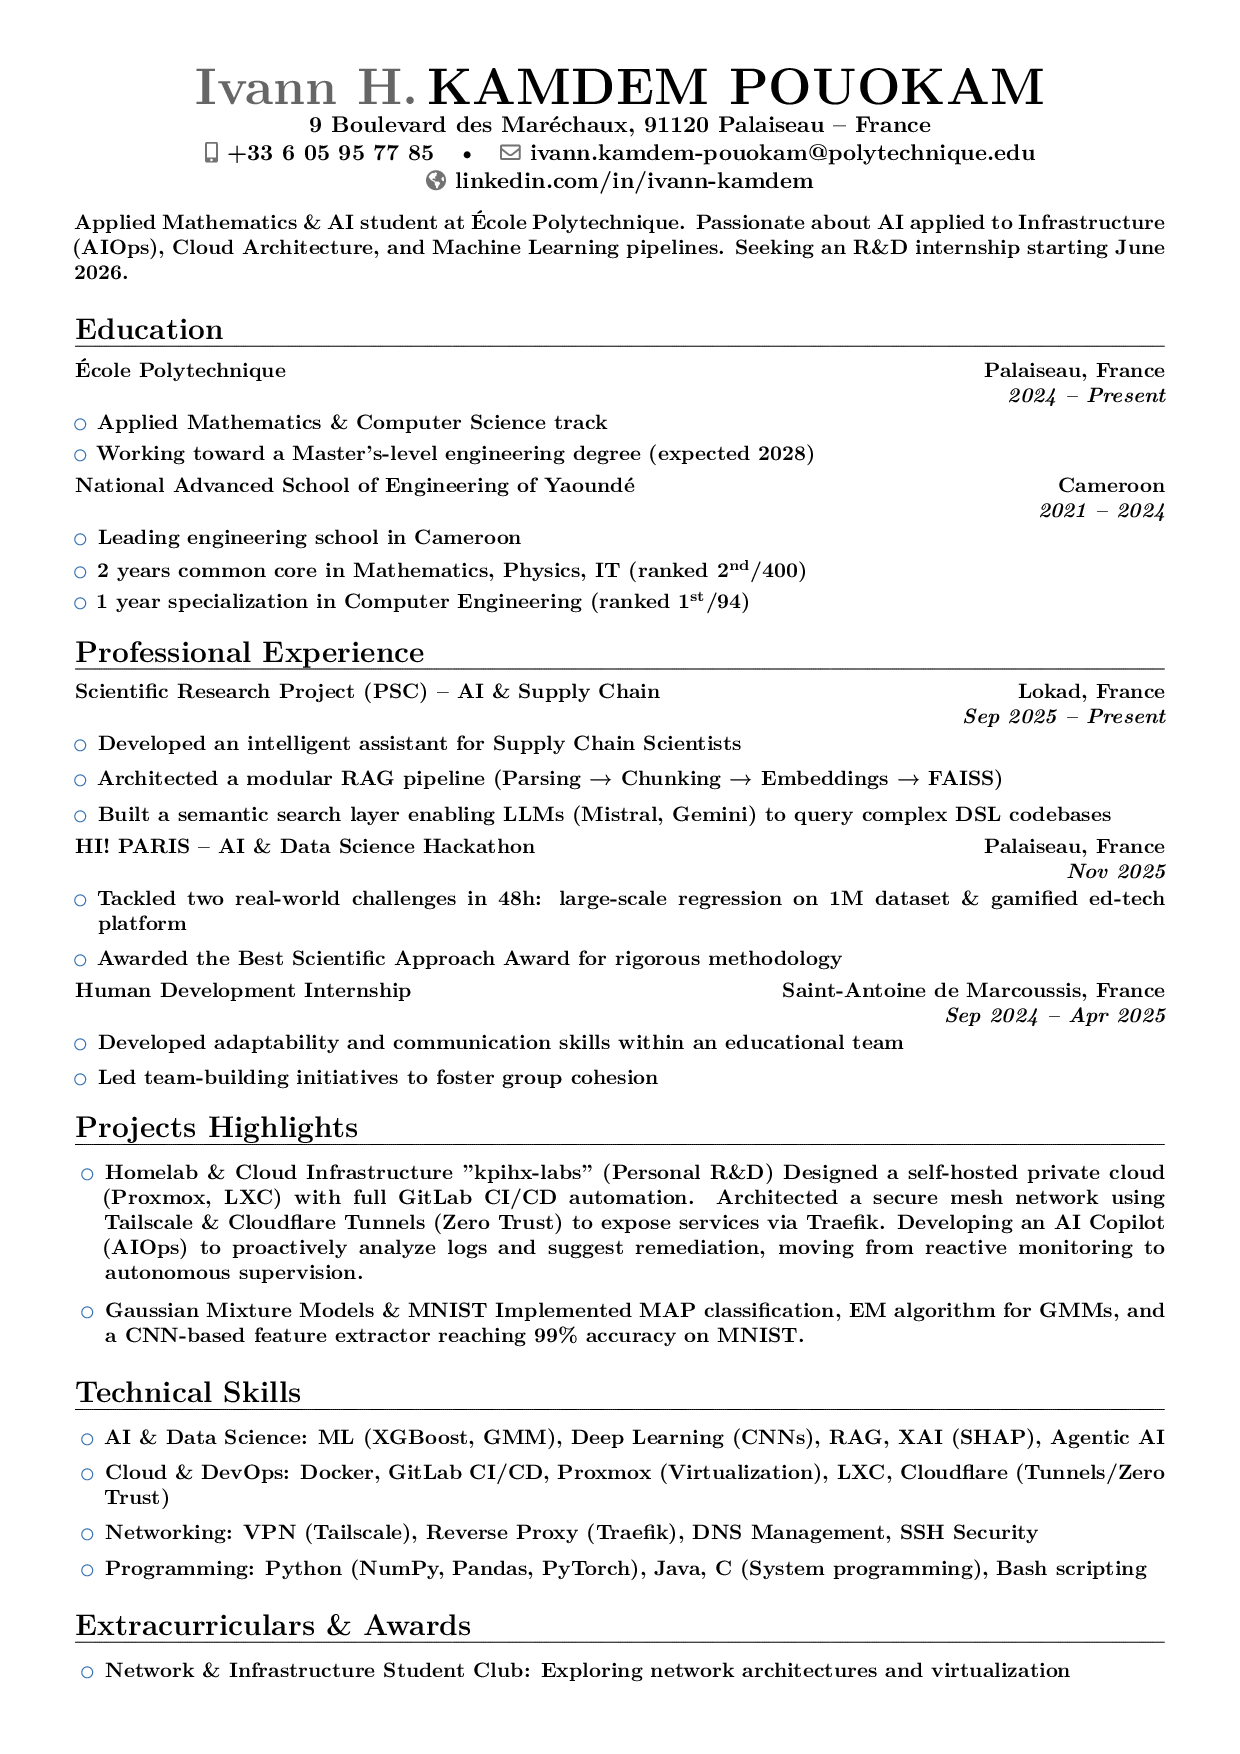
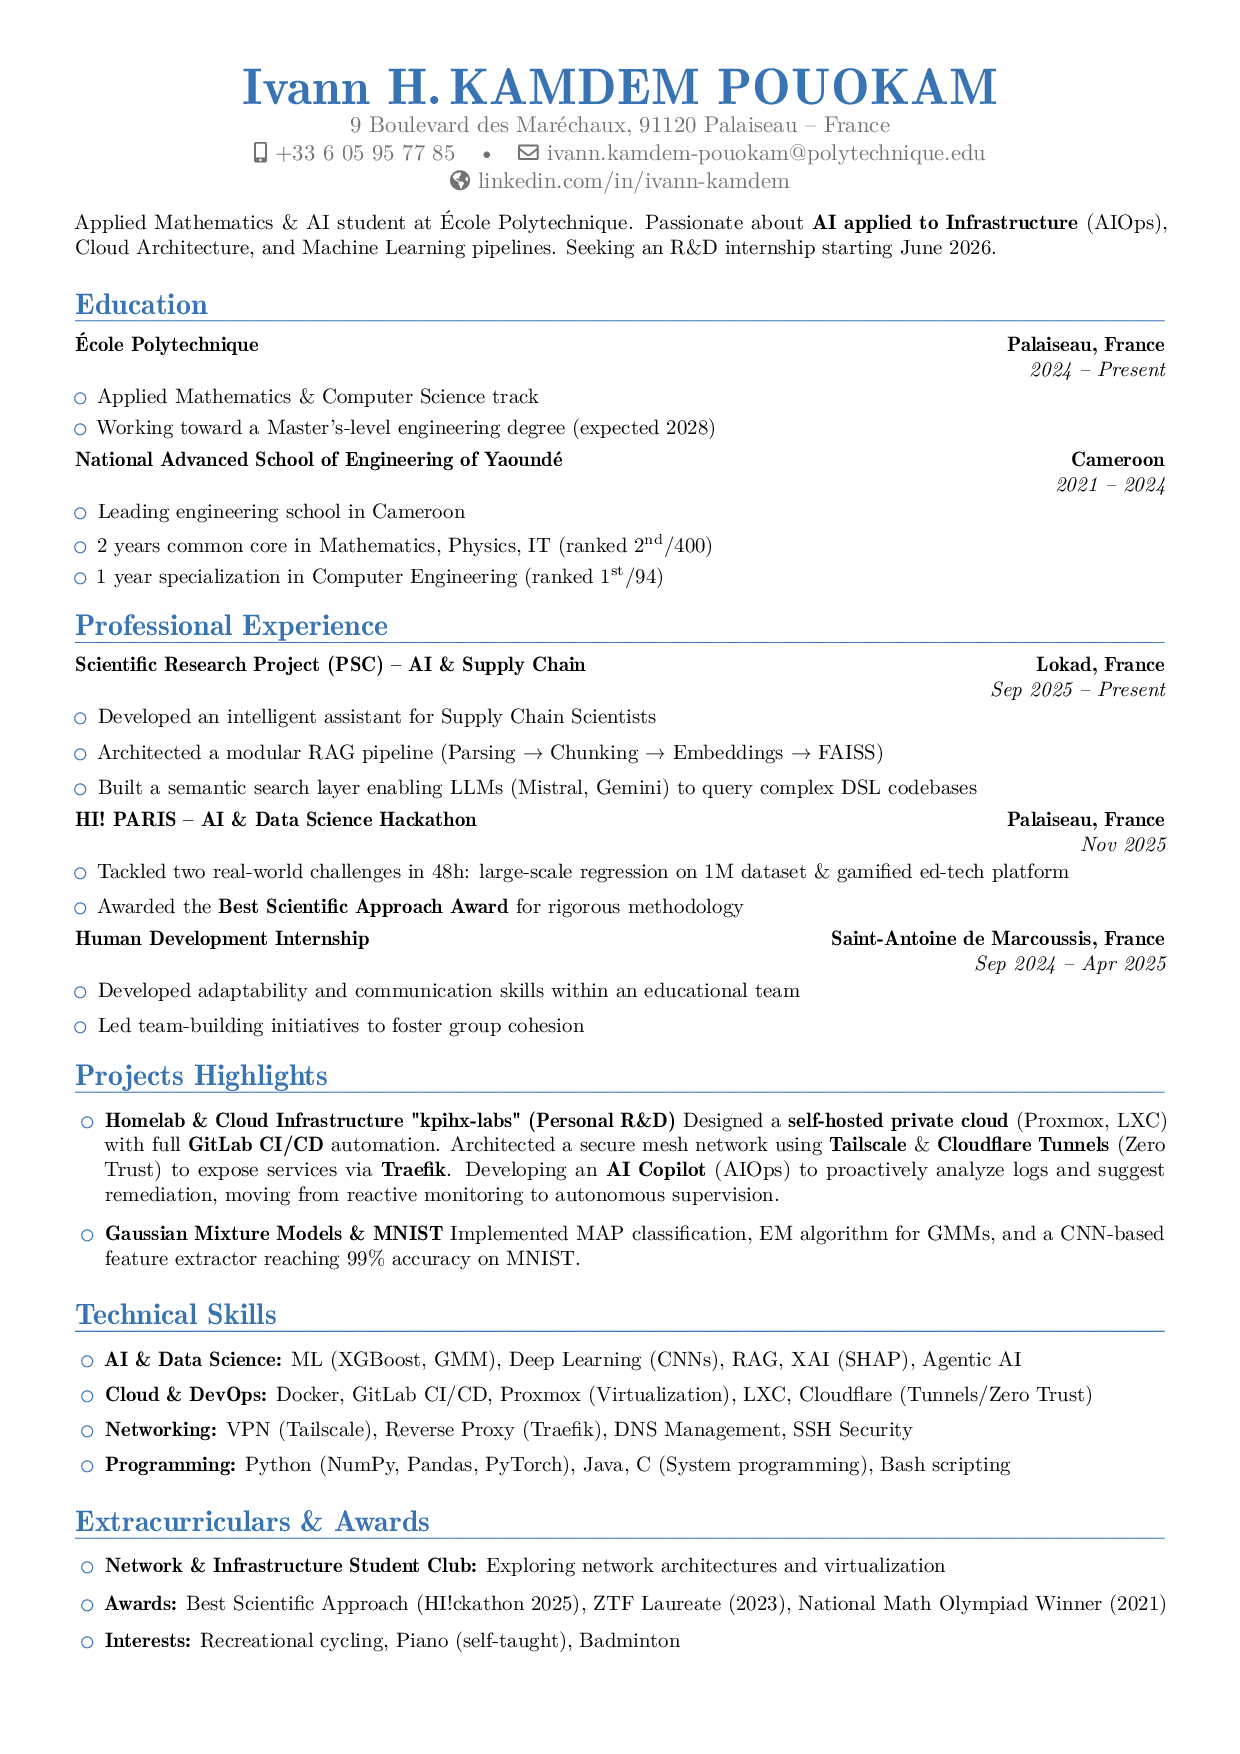
feat: rename to CV_KAMDEM_Ivann, add project scaffolding
- Rename Resume.tex → CV_KAMDEM_Ivann.tex (output: CV_KAMDEM_Ivann.pdf)
  File naming is immutable: share-ready without renaming
- Update all CI/CD references (GitLab + GitHub) to new filename
- Fix .gitignore: add agent artifact exclusions (.agent/, CLAUDE.md,
  GEMINI.md, AGENTS.md, COPILOT.md, VIBE.md, .vibe/)
- Add CHANGELOG.md: full v1.0.0 release history with bug table
- Add TODO.md: content improvements + infra roadmap
- Add .agent/AGENT.md: project kernel with CV-specific rules,
  bug history, build reference, user identity + collaboration protocol

diff --git a/CV_KAMDEM_Ivann.tex b/CV_KAMDEM_Ivann.tex
@@ -3,24 +3,20 @@
 \PassOptionsToPackage{dvipsnames,svgnames,x11names}{xcolor}
 \documentclass[11pt,a4paper]{moderncv}
 
-% modern themes — color MUST be defined before style (moderncv v2.4.1 compat)
-% banking style does \colorlet{sectioncolor}{color1} at load time;
-% color1 must exist first or it silently falls back to black.
+% Color MUST be declared before style (moderncv v2.4.1): banking does
+% \colorlet{sectioncolor}{color1} at package load time — color1 must
+% already exist, otherwise it silently falls back to black.
 \moderncvcolor{blue}
 \moderncvstyle{banking}
 
-% Font setup: use Latin Modern for XeLaTeX (avoids missing TeX Gyre Pagella)
-\usepackage{ifxetex,ifluatex}
-\ifxetex
-  \usepackage{fontspec}
-  \setmainfont{Latin Modern Roman}
-\else\ifluatex
-  \usepackage{fontspec}
-  \setmainfont{Latin Modern Roman}
-\else
-  \usepackage[utf8]{inputenc}
-  \usepackage[T1]{fontenc}
-\fi\fi
+% Override first-name tint: banking default is lastnamecolor!60 (lighter).
+% Force both first and last name to the same full blue.
+\colorlet{firstnamecolor}{color1}
+
+% pdflatex font encoding — gives proper bold/italic with tgpagella
+\usepackage[T1]{fontenc}
+\usepackage{lmodern}
+\usepackage[utf8]{inputenc}
 
 % adjust the page margins
 \usepackage[left=0.5in,right=0.5in,top=0.45in,bottom=0.45in]{geometry}

diff --git a/README.md b/README.md
@@ -3,7 +3,7 @@
 [![GitHub Actions](https://github.com/KpihX/cv-atf/actions/workflows/build-pdf.yml/badge.svg)](https://github.com/KpihX/cv-atf/actions/workflows/build-pdf.yml)
 [![GitLab CI](https://gitlab.com/kpihx/cv-atf/badges/master/pipeline.svg)](https://gitlab.com/kpihx/cv-atf/-/pipelines)
 
-Academic and professional résumé — **moderncv** banking style, blue theme, built with XeLaTeX.
+Academic and professional résumé — **moderncv** banking style, blue theme, built with pdflatex.
 
 ---
 
@@ -21,11 +21,12 @@ Academic and professional résumé — **moderncv** banking style, blue theme, b
 |-----------|--------|
 | Document class | `moderncv` (banking style) |
 | Color theme | blue |
-| Icons | `fontawesome5` |
-| Compiler | **XeLaTeX** (required) |
+| Font | TeX Gyre Pagella (`tgpagella`) |
+| Compiler | **pdflatex** |
 
-> ⚠ **Important:** `fontawesome5` + `moderncv` banking require **XeLaTeX**.
-> Using `pdflatex` produces degraded rendering (missing colors, fallback fonts).
+> ℹ **Engine note:** moderncv banking uses `tgpagella.sty` (pdflatex font package).
+> Use `pdflatex` for correct bold, color, and TeX Gyre Pagella rendering.
+> XeLaTeX causes font conflicts with banking's pdflatex font loader.
 
 ---
 
@@ -37,25 +38,25 @@ Academic and professional résumé — **moderncv** banking style, blue theme, b
 # Ubuntu / Debian — full texlive (recommended)
 sudo apt-get install texlive-full
 
-# Minimal (adjust if packages are missing)
-sudo apt-get install texlive-xetex texlive-latex-extra texlive-fonts-extra
+# Minimal
+sudo apt-get install texlive-latex-extra texlive-fonts-extra lmodern
 ```
 
 ### Compile
 
 ```bash
-xelatex Resume.tex
+pdflatex CV_KAMDEM_Ivann.tex
 ```
 
-Second pass (if cross-references change):
+Second pass (for cross-references):
 
 ```bash
-xelatex Resume.tex && xelatex Resume.tex
+pdflatex CV_KAMDEM_Ivann.tex && pdflatex CV_KAMDEM_Ivann.tex
 ```
 
 ### Output
 
-`Resume.pdf` in the same directory.
+`CV_KAMDEM_Ivann.pdf` — ready to share directly.
 
 ---
 
@@ -65,10 +66,9 @@ Both pipelines trigger on every push to `master`:
 
 | Platform | Config | Artifact |
 |----------|--------|----------|
-| **GitHub Actions** | `.github/workflows/build-pdf.yml` | PDF artifact (90 days) + PNG preview committed |
-| **GitLab CI** | `.gitlab-ci.yml` | PDF + PNG artifacts (1 year) |
+| **GitHub Actions** | `.github/workflows/build-pdf.yml` | `CV_KAMDEM_Ivann.pdf` (90 days) + PNG preview committed |
+| **GitLab CI** | `.gitlab-ci.yml` | `CV_KAMDEM_Ivann.pdf` + PNG (1 year) |
 
-The compiled PDF is available as a CI artifact after each build.
 On **tagged releases** (`git tag vX.Y && git push --tags`), a GitHub Release is created with the PDF attached.
 
 ---
@@ -77,13 +77,14 @@ On **tagged releases** (`git tag vX.Y && git push --tags`), a GitHub Release is 
 
 ```
 cv-atf/
-├── Resume.tex                          # LaTeX source
-├── preview.png                         # auto-generated by CI
-├── .gitlab-ci.yml                      # GitLab CI pipeline
+├── CV_KAMDEM_Ivann.tex     # LaTeX source
+├── CV_KAMDEM_Ivann.pdf     # compiled output (git-ignored)
+├── preview.png             # auto-generated by CI
+├── .gitlab-ci.yml          # GitLab CI pipeline
 ├── .github/
 │   └── workflows/
-│       └── build-pdf.yml               # GitHub Actions pipeline
-└── .gitignore                          # excludes build artifacts and PDF
+│       └── build-pdf.yml   # GitHub Actions pipeline
+└── .gitignore
 ```
 
 ---

diff --git a/CHANGELOG.md b/CHANGELOG.md
@@ -1,0 +1,26 @@
+# CHANGELOG — cv-atf
+
+## [Unreleased]
+
+---
+
+## [1.0.0] — 2026-03-22
+
+### Added
+- [x] Initial CV source: moderncv banking style, blue theme, pdflatex
+- [x] Sections: Education, Professional Experience, Projects Highlights, Technical Skills, Extracurriculars & Awards
+- [x] GitLab CI pipeline (`.gitlab-ci.yml`): pdflatex double-pass, PDF + PNG artifacts (1 year)
+- [x] GitHub Actions pipeline (`.github/workflows/build-pdf.yml`): pdflatex, PDF artifact, auto-preview PNG commit, Release on tag
+- [x] README with CI badges and preview image
+- [x] Source renamed to `CV_KAMDEM_Ivann.tex` / output `CV_KAMDEM_Ivann.pdf`
+
+### Fixed
+- [x] Color rendering: `\moderncvcolor` must precede `\moderncvstyle` in moderncv v2.4.1 (banking loads `\colorlet{sectioncolor}{color1}` at package load time)
+- [x] Bold lost on entry titles: switched from XeLaTeX to pdflatex + `lmodern` + T1 encoding
+- [x] Name tint: forced `firstnamecolor = color1` (banking default is `lastnamecolor!60`)
+- [x] GitLab CI YAML: removed nested block scalar (`|`) inside script list items
+- [x] XeLaTeX `\cventry` inside `\begin{itemize}` conflict: removed outer itemize wrappers
+
+---
+
+*Format: [Keep a Changelog](https://keepachangelog.com) · Versioning: [SemVer](https://semver.org)*

diff --git a/TODO.md b/TODO.md
@@ -1,0 +1,24 @@
+# TODO — cv-atf
+
+## 🔴 Priority
+
+- [ ] Strengthen "Human Development Internship" entry — reframe as leadership/pedagogy to reduce non-technical perception
+- [ ] Add GitHub profile link (`github.com/KpihX`) to contact line
+- [ ] Make MNIST/GMM project description more specific (mention the dataset size, accuracy benchmark context)
+
+## 🟡 Content
+
+- [ ] Add `random-explorer` (X INF421 project — PSO/RRT* path planning) to Projects Highlights
+- [ ] Add `Problem-Solving-MAP` (X Modal — Eikonal, JPEG, Bandits) to Projects section
+- [ ] Consider adding a Languages section (French / English / ?)
+
+## 🟢 Infrastructure
+
+- [ ] Tag `v1.0` → `git tag v1.0 && git push github --tags` to trigger first GitHub Release with PDF
+- [ ] Create French version (`CV_KAMDEM_Ivann_FR.tex`) for French recruiters
+- [ ] Add `latexmk` recipe for one-command build with auto double-pass
+
+## 💡 Ideas
+
+- [ ] Add QR code to LinkedIn profile in header (moderncv supports `\extrainfo`)
+- [ ] Explore ATS-optimized plain text export alongside PDF
